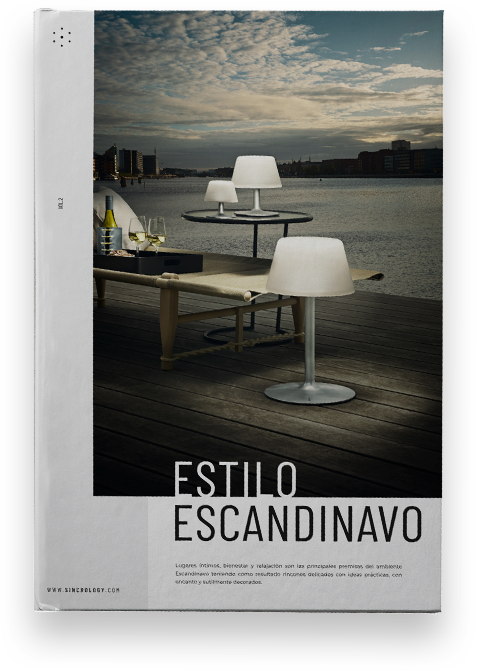
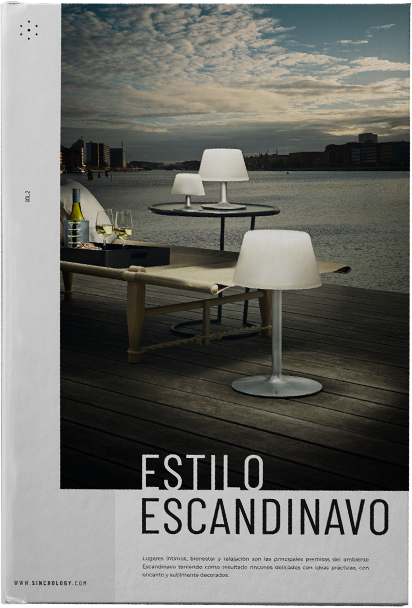
Sección cinco finalizada

diff --git a/src/Sass/section-four.styles.scss b/src/Sass/section-four.styles.scss
@@ -5,16 +5,16 @@
     align-items: center;
 }
 
-.column-1 {
+.bg4 > .column-1 {
     position: relative;
 }
 
-.column-1 > h1, .column-1 > a {
+.bg4 > .column-1 > h1, .bg4 > .column-1 > a {
     position: absolute;
     color: white;
 }
 
-.column-1 > h1 {
+.bg4 > .column-1 > h1 {
     left: 9%;
     bottom: 9%;
     font-family: 'Noto Serif JP', serif;
@@ -22,7 +22,7 @@
     cursor: default;
 }
 
-.column-1 > a {
+.bg4 > .column-1 > a {
     width: 111px;
     bottom: 6%;
     left: 9%;
@@ -36,11 +36,11 @@
     cursor: pointer;
 }
 
-.column-2 {
+.bg4 > .column-2 {
     display: inline-block;
     flex-direction: row;
     height: 567px;
-    width: 600px;
+    width: 520px;
 }
 
 .bg4 > img:nth-child(1) {               // Image catalog
@@ -49,21 +49,21 @@
     height: 567px;
    
 }
-.column-2 > img:nth-child(1) {               // Image item 1
+.bg4 > .column-2 > img:nth-child(1) {               // Image item 1
     position: relative;
     width: 235px;
     height: 268px;
     margin: 0px 10px 10px 21px;
     cursor: pointer;
 }
-.column-2 > img:nth-child(2) {               // Image item 2
+.bg4 > .column-2 > img:nth-child(2) {               // Image item 2
     position: relative;
     width: 235px;
     height: 268px;
     margin: 0px 0px 10px 10px; 
     cursor: pointer;             
 }
-.column-2 > img:nth-child(3) {                //Image item 3
+.bg4 > .column-2 > img:nth-child(3) {                //Image item 3
     position: relative;
     width: 235px;
     height: 268px;
@@ -71,7 +71,7 @@
     margin-left: 22px;
     cursor: pointer;
 }
-.column-2 > img:nth-child(4) {                //Image item 4
+.bg4 > .column-2 > img:nth-child(4) {                //Image item 4
     position: relative;
     width: 235px;
     height: 268px;

diff --git a/src/Sass/section-five.styles.scss b/src/Sass/section-five.styles.scss
@@ -1,0 +1,65 @@
+.bg5 {
+    display: flex;
+    flex-direction: row;
+    position: relative;
+    height: 846px;
+    background: url('../images/img6.png') no-repeat;
+    justify-content: center;
+    align-items: center;
+}
+.bg5 > .column-1 {
+    width: 477px;
+    height: 674.5px;
+    display: flex;
+    flex-direction: column;
+    // justify-content: center;
+    position: relative;
+    top: 10%;
+    left: -3%;
+    align-items: center;
+}
+.bg5 > .column-1 > h1{
+    color: white;
+    font-size: 3em;
+    font-family: 'Noto Serif JP', serif;
+    margin: 0;
+}
+.bg5 > .column-1 > h1:nth-child(1){
+    font-size: 2em;
+    font-weight: 100;
+    font-style: italic;
+}
+.bg5 > .column-2 > img {
+    -webkit-box-shadow: 0px 10px 52px -3px rgba(0,0,0,0.75);
+    -moz-box-shadow: 0px 10px 52px -3px rgba(0,0,0,0.75);
+    box-shadow: 0px 10px 52px -3px rgba(0,0,0,0.75);
+    cursor: pointer;
+}
+
+.bg5 > .column-1 > a {
+    position: relative;
+    top: 9%;
+    width: 210px;
+    font-size: 1.1em;
+    letter-spacing: 1.2px;
+    padding: 8px 25px 10px 20px;
+    border: 1px solid white;
+    text-align: center;
+    margin: 15px;
+    background: none;
+    color: white;
+    font-family: 'Darker Grotesque', sans-serif;
+    background: url('../images/flecha.svg') no-repeat;
+    background-size: 3.5%;
+    cursor: pointer;
+}
+
+.bg5 > .column-1 > :nth-child(3) {
+    background-position: 73% 52%;
+}
+.bg5 > .column-1 > :nth-child(4) {
+    background-position: 73% 52%;
+}
+.bg5 > .column-1 > :nth-child(5) {
+    background-position: 95% 52%;
+}

diff --git a/src/components/SectionFive.js b/src/components/SectionFive.js
@@ -1,0 +1,24 @@
+import React from 'react';
+import catalag2 from '../images/book-alone.png'
+import '../sass/section-five.styles.scss'
+
+const SectionFive = () => {
+    return (
+        <>
+        <div className='bg5'>
+            <div className='column-1'>
+                <h1 >ESTILO</h1>
+                <h1 >ESCANDINAVO</h1>
+                <a>EXPLORAR</a>
+                <a>DESCARGA</a>
+                <a>COMPRA POR AMBIENTES</a>
+            </div>
+            <div className='column-2'>
+                <img src={catalag2} alt='catalog2'/>
+            </div>
+        </div>
+        </>
+    )
+}
+
+export default SectionFive;

diff --git a/src/App.js b/src/App.js
@@ -4,6 +4,7 @@ import SectionOne from './components/SectionOne';
 import SectionTwo from './components/SectionTwo';
 import SectionThree from './components/SectionThree';
 import SectionFour from './components/SectionFour';
+import SectionFive from './components/SectionFive';
 
 import './sass/app.styles.scss';
 
@@ -16,6 +17,7 @@ function App() {
     <SectionTwo/>
     <SectionThree/>
     <SectionFour/>
+    <SectionFive/>
     </>
   );
 }

diff --git a/src/components/SectionFour.js b/src/components/SectionFour.js
@@ -13,8 +13,7 @@ const SectionFour = () => {
         <div className='bg4' >    
                 <div className='column-1'>
         	        <img src={catalog} alt='Ambientes' />
-                    <h1 >Ambientes</h1>
-                   
+                    <h1 >Ambientes</h1>        
                      <a>VER MÁS </a>
                 </div>
                 <div className='column-2'>
